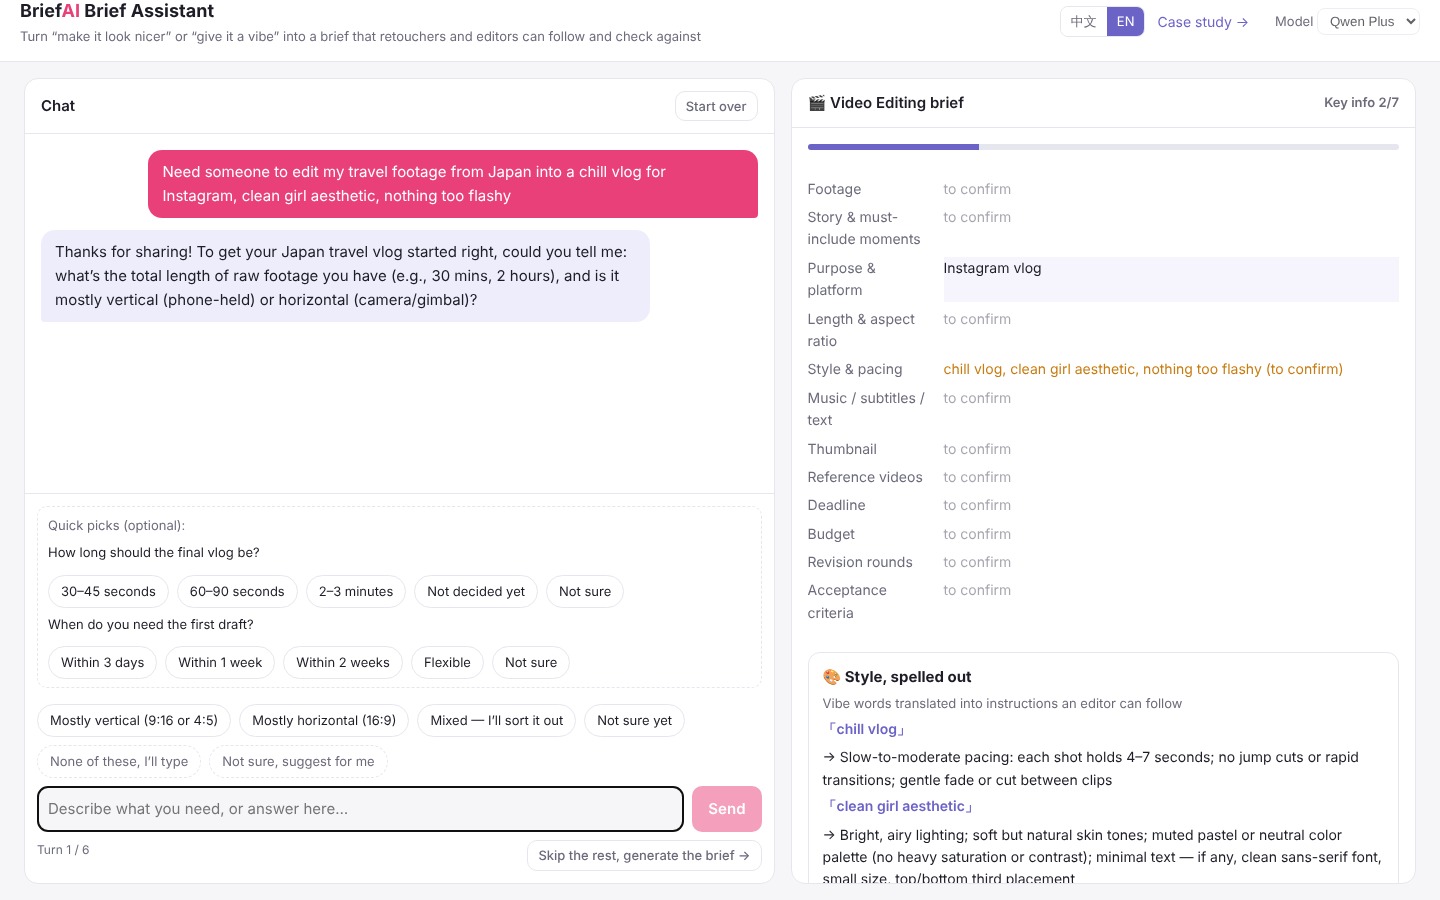
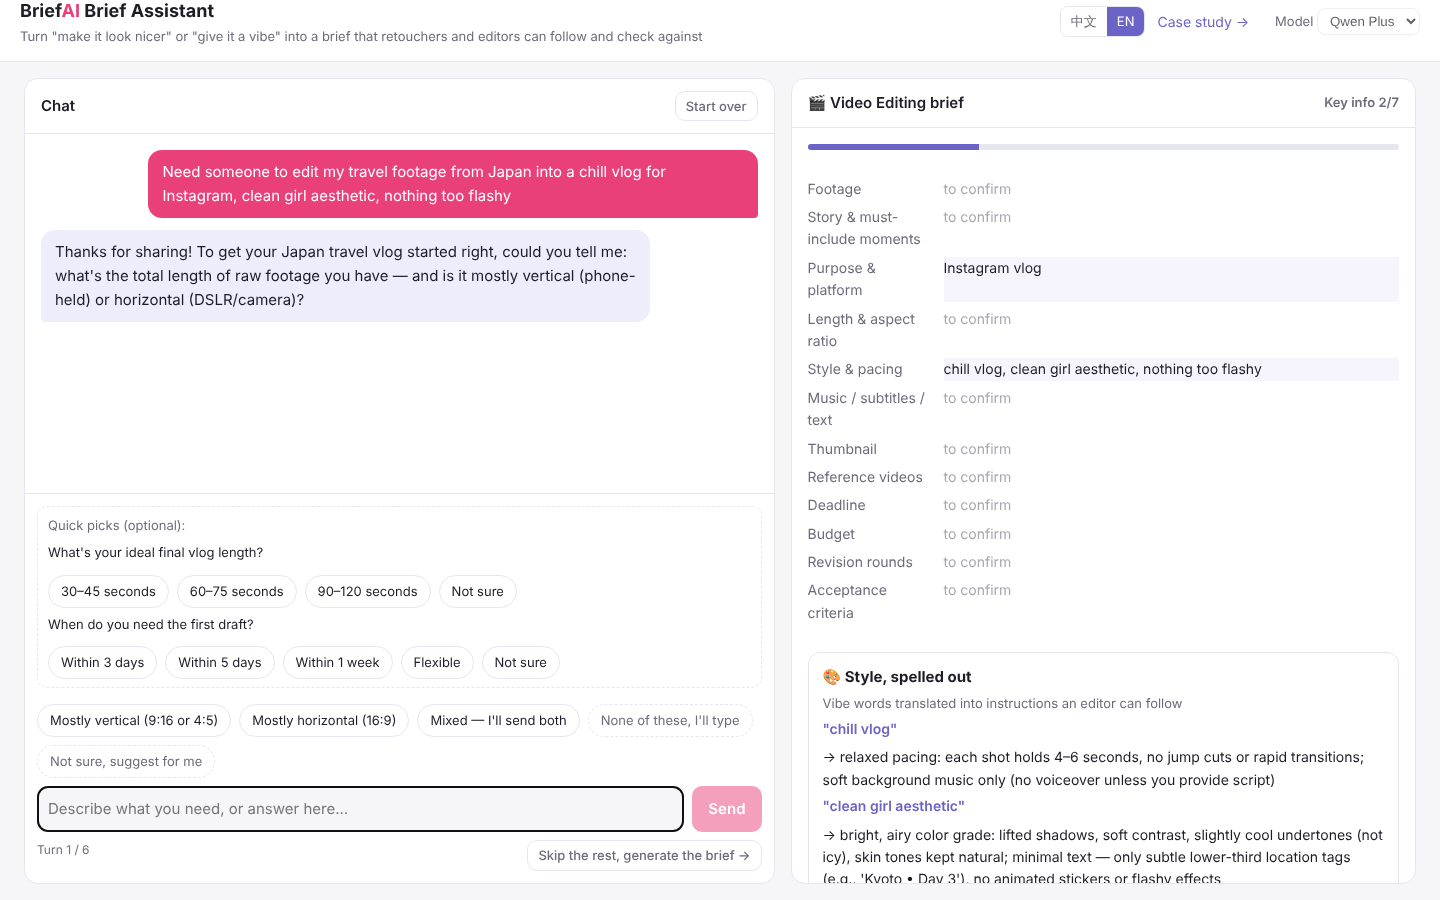
英文版统一使用英文标点：文案直引号、模型输出标点规范化、英文界面用英文字体
Claude-Session: https://claude.ai/code/session_01XRvix77LA4vMzz1pu811dE

diff --git a/app/en/case/page.js b/app/en/case/page.js
@@ -6,49 +6,49 @@ export const metadata = {
 };
 
 const VALIDATION = [
-  ["Copywriting", "Requests have almost disappeared (absorbed by general-purpose AI); what remains is mostly academic ghostwriting", "Not built; academic ghostwriting is a refusal boundary"],
-  ["Simple posters", "Few people still hire designers, yet a post titled “chatted with AI for 3 days to get one poster” got 771 likes", "The bottleneck moved from “who makes it” to “saying clearly what you want”"],
-  ["Logos / slides", "Still in demand at higher prices; “no one-click AI output” has become a selling point", "Market is splitting: low end goes to AI, design-sensitive work stays human"],
-  ["Portrait retouching", "Active, paid demand; disputes like “you call THIS a ¥10 retouch?”", "Launch category"],
-  ["Video editing", "Editors write their own “order requirements” lists: the market has grown its own brief template", "Launch category"],
-  ["Tutoring / photo shoots", "Hard for AI to replace, but the pain is matching and trust, where AI only assists", "Out of scope"],
+  [`Copywriting`, `Requests have almost disappeared (absorbed by general-purpose AI); what remains is mostly academic ghostwriting`, `Not built; academic ghostwriting is a refusal boundary`],
+  [`Simple posters`, `Few people still hire designers, yet a post titled "chatted with AI for 3 days to get one poster" got 771 likes`, `The bottleneck moved from "who makes it" to "saying clearly what you want"`],
+  [`Logos / slides`, `Still in demand at higher prices; "no one-click AI output" has become a selling point`, `Market is splitting: low end goes to AI, design-sensitive work stays human`],
+  [`Portrait retouching`, `Active, paid demand; disputes like "you call THIS a ¥10 retouch?"`, `Launch category`],
+  [`Video editing`, `Editors write their own "order requirements" lists: the market has grown its own brief template`, `Launch category`],
+  [`Tutoring / photo shoots`, `Hard for AI to replace, but the pain is matching and trust, where AI only assists`, `Out of scope`],
 ];
 
 const INSIGHTS = [
-  ["7/15", "retouching requests phrased as negatives", "“not too influencer-style”, “not over-edited”: people know what they don’t want better than what they want"],
-  ["5/15", "had already tried editing it themselves and gave up", "Tools are everywhere; the bottleneck is expressing taste clearly"],
-  ["8 vs 7", "video: individuals vs. creators / businesses", "Individuals can’t articulate needs; businesses write detailed briefs and struggle to hire"],
-  ["Pay if satisfied", "the main way sellers compete on Xianyu", "Sellers currently absorb the risk of mismatched expectations; a brief reduces exactly that"],
+  [`7/15`, `retouching requests phrased as negatives`, `"not too influencer-style`, `not over-edited": people know what they don't want better than what they want`],
+  [`5/15`, `had already tried editing it themselves and gave up`, `Tools are everywhere; the bottleneck is expressing taste clearly`],
+  [`8 vs 7`, `video: individuals vs. creators / businesses`, `Individuals can't articulate needs; businesses write detailed briefs and struggle to hire`],
+  [`Pay if satisfied`, `the main way sellers compete on Xianyu`, `Sellers currently absorb the risk of mismatched expectations; a brief reduces exactly that`],
 ];
 
 const RESULTS = [
-  ["Key-info recall", "67.4%", "73.9%", "58.4%", "67.7%"],
-  ["Fabrication rate", "4.0%", "1.1%", "1.3%", "1.7%"],
-  ["Style recall", "33.3%", "57.8%", "60.3%", "70.8%"],
-  ["Acceptance-criteria recall", "22.1%", "47.8%", "—", "—"],
-  ["Story / must-include recall", "—", "—", "37.2%", "65.8%"],
-  ["Deadline recall", "—", "—", "28.6%", "81.6%"],
+  [`Key-info recall`, `67.4%`, `73.9%`, `58.4%`, `67.7%`],
+  [`Fabrication rate`, `4.0%`, `1.1%`, `1.3%`, `1.7%`],
+  [`Style recall`, `33.3%`, `57.8%`, `60.3%`, `70.8%`],
+  [`Acceptance-criteria recall`, `22.1%`, `47.8%`, `—`, `—`],
+  [`Story / must-include recall`, `—`, `—`, `37.2%`, `65.8%`],
+  [`Deadline recall`, `—`, `—`, `28.6%`, `81.6%`],
 ];
 
 const LESSONS = [
-  ["Question priority is zero-sum", "With a 6-turn limit, reordering questions only shifts recall between fields (style up, others down, total flat). What raised total recall was “quick picks”: more information per turn."],
-  ["Models can’t reliably flag their own guesses", "Only ~11% of fabricated fields were self-flagged by the model. Replaced with code checks: content traceable to the user’s words is kept; content that looks like the assistant’s own proposal is marked “to confirm”; skipped confirmations are never written in."],
-  ["The judge needs evaluating too", "The evaluation itself went through 5 revisions: the judge counted empty fields as fabrication, missed embellishments, treated “didn’t object” as “agreed”, simulated users were too cooperative, and single runs were too noisy. All found by reading transcripts by hand."],
-  ["New features create new failure modes", "After adding quick picks, the model started defaulting to “2 revision rounds” as an industry norm (7 of 13 cases), caught only by reading results line by line."],
-  ["Real usage found what simulation couldn’t", "Options that should be multi-select, the user’s own words wrongly flagged “to confirm”, style options that were as vague as the original request, options listed in text but not clickable: 9 issues in total, all fixed."],
-  ["Text has a ceiling for taste", "In real posts, people align on taste through example photos, sample videos and creators they like. Next step: reference images first."],
+  [`Question priority is zero-sum`, `With a 6-turn limit, reordering questions only shifts recall between fields (style up, others down, total flat). What raised total recall was "quick picks": more information per turn.`],
+  [`Models can't reliably flag their own guesses`, `Only ~11% of fabricated fields were self-flagged by the model. Replaced with code checks: content traceable to the user's words is kept; content that looks like the assistant's own proposal is marked "to confirm"; skipped confirmations are never written in.`],
+  [`The judge needs evaluating too`, `The evaluation itself went through 5 revisions: the judge counted empty fields as fabrication, missed embellishments, treated "didn't object" as "agreed", simulated users were too cooperative, and single runs were too noisy. All found by reading transcripts by hand.`],
+  [`New features create new failure modes`, `After adding quick picks, the model started defaulting to "2 revision rounds" as an industry norm (7 of 13 cases), caught only by reading results line by line.`],
+  [`Real usage found what simulation couldn't`, `Options that should be multi-select, the user's own words wrongly flagged "to confirm", style options that were as vague as the original request, options listed in text but not clickable: 9 issues in total, all fixed.`],
+  [`Text has a ceiling for taste`, `In real posts, people align on taste through example photos, sample videos and creators they like. Next step: reference images first.`],
 ];
 
 export default function CasePageEn() {
   return (
-    <div className="case">
+    <div className="case" lang="en">
       <header className="case-hero">
         <div className="case-wrap">
           <div className="case-top">
             <div className="logo">Brief<span>AI</span> · Case Study</div>
             <Link className="header-link" href="/case">中文版</Link>
           </div>
-          <h1>Turning “make it look nicer” into a brief that retouchers and video editors can follow and check against</h1>
+          <h1>Turning "make it look nicer" into a brief that retouchers and video editors can follow and check against</h1>
           <p className="case-lead">
             An AI requirement-clarification product for portrait retouching and video editing: multi-turn questions → structured brief → vibe words translated into instructions → rule-based pricing → AI routing (do it yourself with an AI app / AI + human / hire a human). Bilingual briefs support cross-border orders. Every step from market research to evaluation is documented.
           </p>
@@ -63,7 +63,7 @@ export default function CasePageEn() {
         <section>
           <h2>1. Background: an outdated business plan</h2>
           <p>
-            In 2022 I co-founded a campus skills marketplace, “Jiaowohuo”, and led operations. The biggest source of friction was that buyers couldn’t say what they wanted, which led to endless back-and-forth, rework and disputes.
+            In 2022 I co-founded a campus skills marketplace, "Jiaowohuo", and led operations. The biggest source of friction was that buyers couldn't say what they wanted, which led to endless back-and-forth, rework and disputes.
             Looking back in 2026, AI has absorbed the cheap, simple jobs that platform targeted. So I asked again: <b>in the AI era, where in this transaction should AI step in?</b>
           </p>
         </section>
@@ -76,7 +76,7 @@ export default function CasePageEn() {
               <tbody>{VALIDATION.map((r) => <tr key={r[0]}>{r.map((c, i) => <td key={i}>{c}</td>)}</tr>)}</tbody>
             </table>
           </div>
-          <p className="note">Takeaway: where AI does the job well, human demand is gone. What remains is subjective, hard-to-describe visual work, and the bottleneck is always “the buyer can’t say it clearly, so expectations don’t match”.</p>
+          <p className="note">Takeaway: where AI does the job well, human demand is gone. What remains is subjective, hard-to-describe visual work, and the bottleneck is always "the buyer can't say it clearly, so expectations don't match".</p>
         </section>
 
         <section>
@@ -97,11 +97,11 @@ export default function CasePageEn() {
           <div className="shots">
             <figure>
               <img src="/case/en-1-clarify.png" alt="Clarifying questions with quick picks" />
-              <figcaption>Clarifying: one main question per turn plus up to 3 quick picks (multi-select); ask for references first; options must describe what you’d actually see or hear</figcaption>
+              <figcaption>Clarifying: one main question per turn plus up to 3 quick picks (multi-select); ask for references first; options must describe what you'd actually see or hear</figcaption>
             </figure>
             <figure>
               <img src="/case/en-2-bilingual.png" alt="Bilingual brief for a China-based editor" />
-              <figcaption>Cross-border: an overseas client’s English brief becomes a Chinese brief for a China-based editor, with vibe words like “clean girl aesthetic” explained and culture-specific tips</figcaption>
+              <figcaption>Cross-border: an overseas client's English brief becomes a Chinese brief for a China-based editor, with vibe words like "clean girl aesthetic" explained and culture-specific tips</figcaption>
             </figure>
             <figure>
               <img src="/case/2-brief.png" alt="Brief, style translation, pricing and AI routing (Chinese UI)" />
@@ -114,16 +114,16 @@ export default function CasePageEn() {
           <h2>5. Going global: early signals from the data</h2>
           <ul>
             <li>3 of the 15 video posts involve overseas clients or platforms: an overseas creator hiring an editor for English interviews, Instagram videos paid <b>CNY 200–300 per video</b> (roughly 10× the domestic student rate), and TikTok talking-head edits.</li>
-            <li>In these cross-border orders, the gap isn’t only “unclear needs” but also <b>language and taste</b>: “clean girl aesthetic” or “cinematic” means little to an editor in China. The bilingual brief targets exactly this.</li>
-            <li><b>Not yet validated:</b> next I’m collecting real English requests from Reddit (r/PhotoshopRequest, r/forhire) to check whether overseas users show the same patterns, then running the same evaluation in English.</li>
+            <li>In these cross-border orders, the gap isn't only "unclear needs" but also <b>language and taste</b>: "clean girl aesthetic" or "cinematic" means little to an editor in China. The bilingual brief targets exactly this.</li>
+            <li><b>Not yet validated:</b> next I'm collecting real English requests from Reddit (r/PhotoshopRequest, r/forhire) to check whether overseas users show the same patterns, then running the same evaluation in English.</li>
           </ul>
         </section>
 
         <section>
           <h2>6. Evaluation method</h2>
           <ul>
-            <li><b>Test cases</b>: 30 real request posts; each expanded into a hidden “full intent” profile (the original words are real, the expanded details are synthetic).</li>
-            <li><b>Simulated users</b>: cooperative / off-topic / low-effort, answering only what they’re asked.</li>
+            <li><b>Test cases</b>: 30 real request posts; each expanded into a hidden "full intent" profile (the original words are real, the expanded details are synthetic).</li>
+            <li><b>Simulated users</b>: cooperative / off-topic / low-effort, answering only what they're asked.</li>
             <li><b>Judge</b>: an LLM checks every brief field against what the user actually said (fabrication, embellishment) and against the hidden profile (recall), with human spot checks.</li>
             <li><b>Statistics</b>: 3 runs per version, reporting mean and range; an improvement only counts if it clears the run-to-run noise.</li>
           </ul>

diff --git a/lib/i18n.js b/lib/i18n.js
@@ -4,6 +4,20 @@ export const PENDING = { zh: "（待确认）", en: " (to confirm)" };
 export const PENDING_RE = /待确认|to confirm/i;
 export const UNSURE = { zh: "不确定", en: "Not sure" };
 
+// 英文模式下，把模型输出里混入的中文 / 弯引号标点统一成英文标点
+const PUNCT = [
+  [/[“”„]/g, '"'], [/[‘’]/g, "'"], [/[「」『』]/g, '"'],
+  [/（/g, " ("], [/）/g, ") "], [/：/g, ": "], [/，/g, ", "], [/。/g, ". "],
+  [/；/g, "; "], [/！/g, "! "], [/？/g, "? "], [/、/g, ", "], [/…/g, "..."],
+];
+export function asciiPunct(text) {
+  if (typeof text !== "string") return text;
+  let out = text;
+  for (const [re, rep] of PUNCT) out = out.replace(re, rep);
+  // 清理替换后多出来的空格（保留换行）
+  return out.replace(/[ \t]{2,}/g, " ").replace(/ ([,.;:!?)])/g, "$1").replace(/\( /g, "(").replace(/[ \t]+\n/g, "\n").trim();
+}
+
 export const T = {
   zh: {
     title: "需求助手",
@@ -67,7 +81,7 @@ export const T = {
   },
   en: {
     title: "Brief Assistant",
-    tagline: "Turn “make it look nicer” or “give it a vibe” into a brief that retouchers and editors can follow and check against",
+    tagline: `Turn "make it look nicer" or "give it a vibe" into a brief that retouchers and editors can follow and check against`,
     caseLink: "Case study →",
     caseHref: "/en/case",
     model: "Model",
@@ -75,7 +89,7 @@ export const T = {
     restart: "Start over",
     welcomeTitle: "Photo retouching or video editing?",
     welcomeBody: (
-      <>Just describe it in a sentence. I’ll ask a few questions so the editor gets it right the first time. Currently supports <b>portrait retouching</b> and <b>video editing</b>.</>
+      <>Just describe it in a sentence. I'll ask a few questions so the editor gets it right the first time. Currently supports <b>portrait retouching</b> and <b>video editing</b>.</>
     ),
     examples: [
       "Retouch my graduation photo, make it look fresh but still like me",
@@ -89,9 +103,9 @@ export const T = {
     multiHint: "Pick as many as you like, then press Send",
     haveRef: "📎 I have a reference (creator / video / photo link)",
     haveRefPrefill: "My reference: ",
-    notThese: "None of these, I’ll type",
+    notThese: "None of these, I'll type",
     suggest: "Not sure, suggest for me",
-    placeholderDone: "Brief is ready. Add changes, or press “Start over”",
+    placeholderDone: `Brief is ready. Add changes, or press "Start over"`,
     placeholder: "Describe what you need, or answer here…",
     send: "Send",
     turn: (n, max) => `Turn ${n} / ${max}`,
@@ -99,15 +113,15 @@ export const T = {
     finishNow: "Skip the rest, generate the brief →",
     briefTitle: (cat) => (cat ? `${cat.emoji} ${cat.nameEn} brief` : "Brief (live)"),
     keyInfo: (a, b) => `Key info ${a}/${b}`,
-    refused: "🚫 We can’t take this request",
-    unsupported: "🚧 This category isn’t supported yet",
+    refused: "🚫 We can't take this request",
+    unsupported: "🚧 This category isn't supported yet",
     empty: "Once we start chatting, your structured brief will appear here.",
     styleCard: "🎨 Style, spelled out",
     styleCardSub: "Vibe words translated into instructions an editor can follow",
     price: "💰 Price reference: ",
     source: "Source: ",
     routing: "🧭 AI routing",
-    routingPending: "Once the brief is clear, I’ll suggest: 🤖 do it yourself with an AI app / 🤝 AI + human touch-up / 🧑🎨 hire a human, with reasons.",
+    routingPending: "Once the brief is clear, I'll suggest: 🤖 do it yourself with an AI app / 🤝 AI + human touch-up / 🧑🎨 hire a human, with reasons.",
     routeLabel: { ai: "🤖 Do it yourself with an AI app", hybrid: "🤝 AI first, human touch-up", human: "🧑🎨 Hire a human editor" },
     copy: "Copy brief for the editor",
     copied: "Copied ✓",

diff --git a/app/api/chat/route.js b/app/api/chat/route.js
@@ -5,7 +5,7 @@ import { chat, parseJson, ALLOWED_MODELS } from "@/lib/llm";
 import { clarifySystemPrompt, MAX_TURNS } from "@/lib/prompts";
 import { CATEGORIES, fieldsOf } from "@/lib/categories";
 import { estimatePrice } from "@/lib/pricing";
-import { PENDING, PENDING_RE } from "@/lib/i18n";
+import { PENDING, PENDING_RE, asciiPunct } from "@/lib/i18n";
 
 // 请求：{ messages: [{role, content}], forceFinish, model, state }
 // state 是上一轮返回的 { category, brief, style_translation, price_inputs }
@@ -117,6 +117,17 @@ export async function POST(req) {
     const priceInputs = parsed.price_inputs ?? null;
     const price = category ? estimatePrice(category, priceInputs, lang) : null;
 
+    // 英文模式：统一成英文标点（模型常混入弯引号和全角符号）
+    if (lang === "en") {
+      const P = asciiPunct;
+      reply = P(reply);
+      options = options.map(P);
+      for (const q of quickForm) { q.question = P(q.question); q.options = q.options.map(P); }
+      for (const k of Object.keys(brief)) brief[k] = P(brief[k]);
+      for (const st of styleTranslation) { st.term = P(st.term); st.spec = P(st.spec); }
+      if (parsed.routing?.reason) parsed.routing.reason = P(parsed.routing.reason);
+    }
+
     return Response.json({
       action,
       category,
@@ -129,8 +140,10 @@ export async function POST(req) {
       quickForm,
       // 写入对话历史的助手发言：主问题 + 快速选择题，保证下一轮模型（和评测里的模拟用户）都能看到
       transcript: quickForm.length
-        ? `${parsed.reply}\n（顺便快速选一下：${quickForm.map((q) => `${q.question}${q.multi ? "（可多选）" : ""}【${q.options.join(" / ")}】`).join("；")}）`
-        : parsed.reply || "",
+        ? lang === "en"
+          ? `${reply}\n(Quick picks: ${quickForm.map((q) => `${q.question}${q.multi ? " (pick any)" : ""} [${q.options.join(" / ")}]`).join("; ")})`
+          : `${reply}\n（顺便快速选一下：${quickForm.map((q) => `${q.question}${q.multi ? "（可多选）" : ""}【${q.options.join(" / ")}】`).join("；")}）`
+        : reply,
       brief,
       styleTranslation,
       priceInputs,

diff --git a/app/page.js b/app/page.js
@@ -13,7 +13,7 @@ function briefToText({ category, brief, styleTranslation, price, routing }, lang
   for (const f of fieldsOf(category)) lines.push(`${labelOf(f, lang)}${t.sep}${brief[f.key] ?? t.pendingValue}`);
   if (styleTranslation?.length) {
     lines.push("", t.styleHeading);
-    for (const s of styleTranslation) lines.push(`「${s.term}」→ ${s.spec}`);
+    for (const s of styleTranslation) lines.push(lang === "en" ? `"${s.term}" → ${s.spec}` : `「${s.term}」→ ${s.spec}`);
   }
   if (price) lines.push("", `${t.priceHeading}${price.summary}`);
   if (routing) lines.push(`${t.routeHeading}${t.routeLabel[routing.type] ?? routing.type}${t.sep}${routing.reason}`);
@@ -225,7 +225,7 @@ export default function Home() {
   const unsupported = view?.action === "unsupported";
 
   return (
-    <>
+    <div className="app-root" lang={lang === "en" ? "en" : "zh-CN"}>
       <header className="header">
         <div>
           <div className="logo">Brief<span>AI</span> {t.title}</div>
@@ -379,7 +379,7 @@ export default function Home() {
                     <div className="sub">{t.styleCardSub}</div>
                     {view.styleTranslation.map((s, i) => (
                       <div key={i} className="translate">
-                        <span className="term">「{s.term}」</span>
+                        <span className="term">{lang === "en" ? `"${s.term}"` : `「${s.term}」`}</span>
                         <span>→ {s.spec}</span>
                       </div>
                     ))}
@@ -468,7 +468,7 @@ export default function Home() {
           </div>
         </section>
       </main>
-    </>
+    </div>
   );
 }
 

diff --git a/lib/pricing.js b/lib/pricing.js
@@ -44,7 +44,7 @@ const TXT = {
     total: (n, l, h) => `${n} photos ≈ CNY ${l * n}–${h * n}`,
     tierNote: " (independent / student freelancers in China)",
     count: (n) => (n ? `Photos: ${n}` : "Photos: to confirm"),
-    retouchSource: "China freelance market: Xianyu retouching listings (e.g. “CNY 10 per photo”, “heavy edits CNY 25 per photo”) and Xiaohongshu request posts",
+    retouchSource: "China freelance market: Xianyu retouching listings (e.g. \"CNY 10 per photo\", \"heavy edits CNY 25 per photo\") and Xiaohongshu request posts",
     length: (sec) => (sec >= 60 ? `${Math.round(sec / 60)} min` : `${sec} s`),
     videoLine: (len, l, h) => `Final length ~${len}: CNY ${l}–${h} (independent / student freelancers in China)`,
     urgent: "Rush: most editors charge extra, negotiable",
@@ -57,7 +57,7 @@ const TXT = {
       "Student freelancers: 5–10 min ≈ CNY 50–100; longer videos quoted separately",
       "Professional: simple talking-head ≈ CNY 30/min; English short-form for Instagram ≈ CNY 200–300 per video; corporate event video ≈ CNY 10,000",
     ],
-    longSource: "Xianyu price lists and Xiaohongshu hiring posts (TikTok talking-head “CNY 30/min”, Instagram “CNY 200–300 per video”, corporate “CNY 10k budget”)",
+    longSource: "Xianyu price lists and Xiaohongshu hiring posts (TikTok talking-head \"CNY 30/min\", Instagram \"CNY 200–300 per video\", corporate \"CNY 10k budget\")",
   },
 };
 

diff --git a/app/api/guide/route.js b/app/api/guide/route.js
@@ -3,6 +3,7 @@ export const maxDuration = 60;
 
 import { chat, ALLOWED_MODELS } from "@/lib/llm";
 import { CATEGORIES } from "@/lib/categories";
+import { asciiPunct } from "@/lib/i18n";
 
 // AI 自助操作指引：把需求单翻译成在常见 App 里自己动手的步骤
 const TOOLS = {
@@ -39,7 +40,7 @@ export async function POST(req) {
         },
       ],
     });
-    return Response.json({ tool, guide: result.content.trim(), meta: { model, latencyMs: result.latencyMs } });
+    return Response.json({ tool, guide: lang === "en" ? asciiPunct(result.content.trim()) : result.content.trim(), meta: { model, latencyMs: result.latencyMs } });
   } catch (e) {
     return Response.json({ error: e.message || "服务出错了" }, { status: 500 });
   }

diff --git a/app/globals.css b/app/globals.css
@@ -173,3 +173,5 @@ button:disabled { cursor: not-allowed; opacity: 0.5; }
 .small-title { font-size: 14px; margin-top: 8px; }
 .card .actions { margin-top: 8px; }
 .case-top { display: flex; justify-content: space-between; align-items: center; gap: 12px; }
+/* 英文界面优先用英文字体，避免中文字体把引号、撇号显示成全角 */
+[lang="en"] { font-family: -apple-system, BlinkMacSystemFont, "Segoe UI", Roboto, "Helvetica Neue", Arial, "PingFang SC", "Microsoft YaHei", sans-serif; }

diff --git a/docs/迭代记录.md b/docs/迭代记录.md
@@ -123,3 +123,4 @@
 - 新增 `/api/bilingual`：英文需求单 → 中文版需求单 + 审美词解释 + 跨文化提示；可一键复制中英双语版本。
 - 测试：英文完整对话输出中文字符 0 个；用户没回答的「叙事重点」在英文模式下同样保持「待确认」。
 - 新增英文项目介绍页 `/en/case`；中文页增加「出海延伸」一节。
+- 修复（用户试用发现）：英文版里混有中文标点。原因有三：① 英文文案用了弯引号，中文字体下显示成全角；② 英文界面里的风格词用了中文的「」；③ 模型输出夹带弯引号和全角符号。修复：英文文案改用直引号；英文模式下「」改为英文引号；服务端对英文模式的模型输出统一替换成英文标点（回复、选项、快速选择题、需求单、风格说明、分单理由、自助指引）；英文界面优先使用英文字体。验证：两段完整英文对话 + 自助指引，扫描结果中没有中文或弯引号标点。
